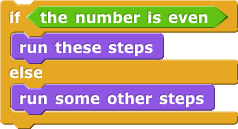
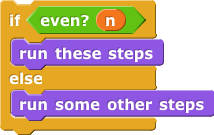
better non-pseudocode scripting

diff --git a/cur/programming/2-conditionals-abstraction-testing/2-script-variables/2-script-variable-projects.html b/cur/programming/2-conditionals-abstraction-testing/2-script-variables/2-script-variable-projects.html
@@ -20,7 +20,8 @@
                   <p><img src="/bjc-r/img/2-conditionals-abstraction-testing/Tableau-I-Piet-Mondrian.png" width="300" alt="Tableau_I,_by_Piet_Mondriaan, from Wikimedia Commons"> &quot;Tableau 1&quot; by Piet Mondrian</p>
                   <p>Mondrian wasn't at all random in his choice of colors and locations, but even some random choices can be interesting. A <span class="snap">snap</span> script can produce designs like these. </p>
                 <p><img src="/bjc-r/img/2-conditionals-abstraction-testing/Snap-Piet-Mondrian.png" width="260"  alt="Mondrian-like art drawn with Snap"> <img src="/bjc-r/img/2-conditionals-abstraction-testing/Snap-Piet-Mondrian2.png" width="260"  alt="another Mondrian-like design drawn with Snap"></p>
-                This algorithm  produced those designs.<br />
+                <div class="sidenoteBig">This isn't the actual Snap<em>!</em> program.  You could write custom blocks with these names, but they're a little verbose to use as real block names, especially that two-line one in the middle.  This algorithm is for you to read, not for a computer to read.</div>
+                This algorithm  produced those designs:<br />
                 <img src="/bjc-r/img/2-conditionals-abstraction-testing/mondrian-script.png" alt="Draw outer frame (400 x 300)
 Fill with some color
 Repeat many times

diff --git a/cur/programming/2-conditionals-abstraction-testing/1-conditionals/2-creating-predicates.html b/cur/programming/2-conditionals-abstraction-testing/1-conditionals/2-creating-predicates.html
@@ -7,7 +7,7 @@
     </head>
 
     <body>
-		<h2>Creating Predicates</h2>
+		<h2> Creating Predicates</h2>
         
         <div class="todo">
         	<ul>
